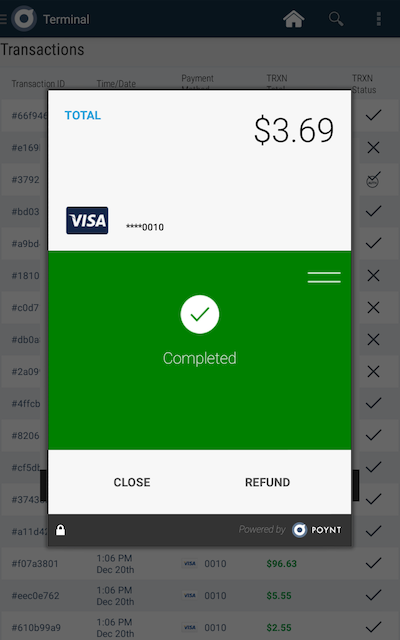
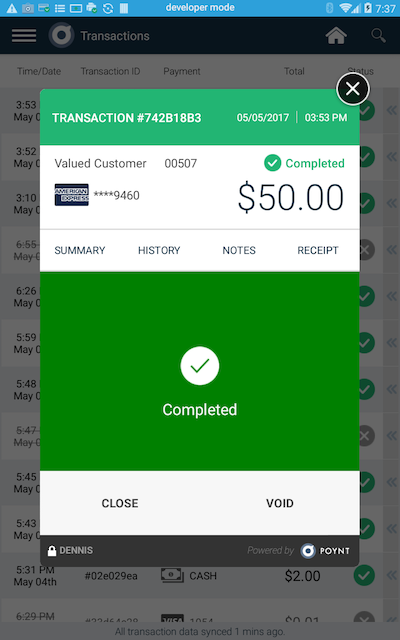
updated payment fragment images

diff --git a/_posts/2015-04-22-poynt-payment-fragments.md b/_posts/2015-04-22-poynt-payment-fragments.md
@@ -18,7 +18,7 @@ Currently the Payment Fragments support the following features:
 6. Non-referenced credits and auth only transactions
 
 {: .center}
-![Payment Fragment]({{site.url}}/developer/assets/payment-fragment.png)
+![Payment Fragment]({{site.url}}/developer/assets/payment-fragment2.png)
 
 ## Integrating with Payment Fragments
 
